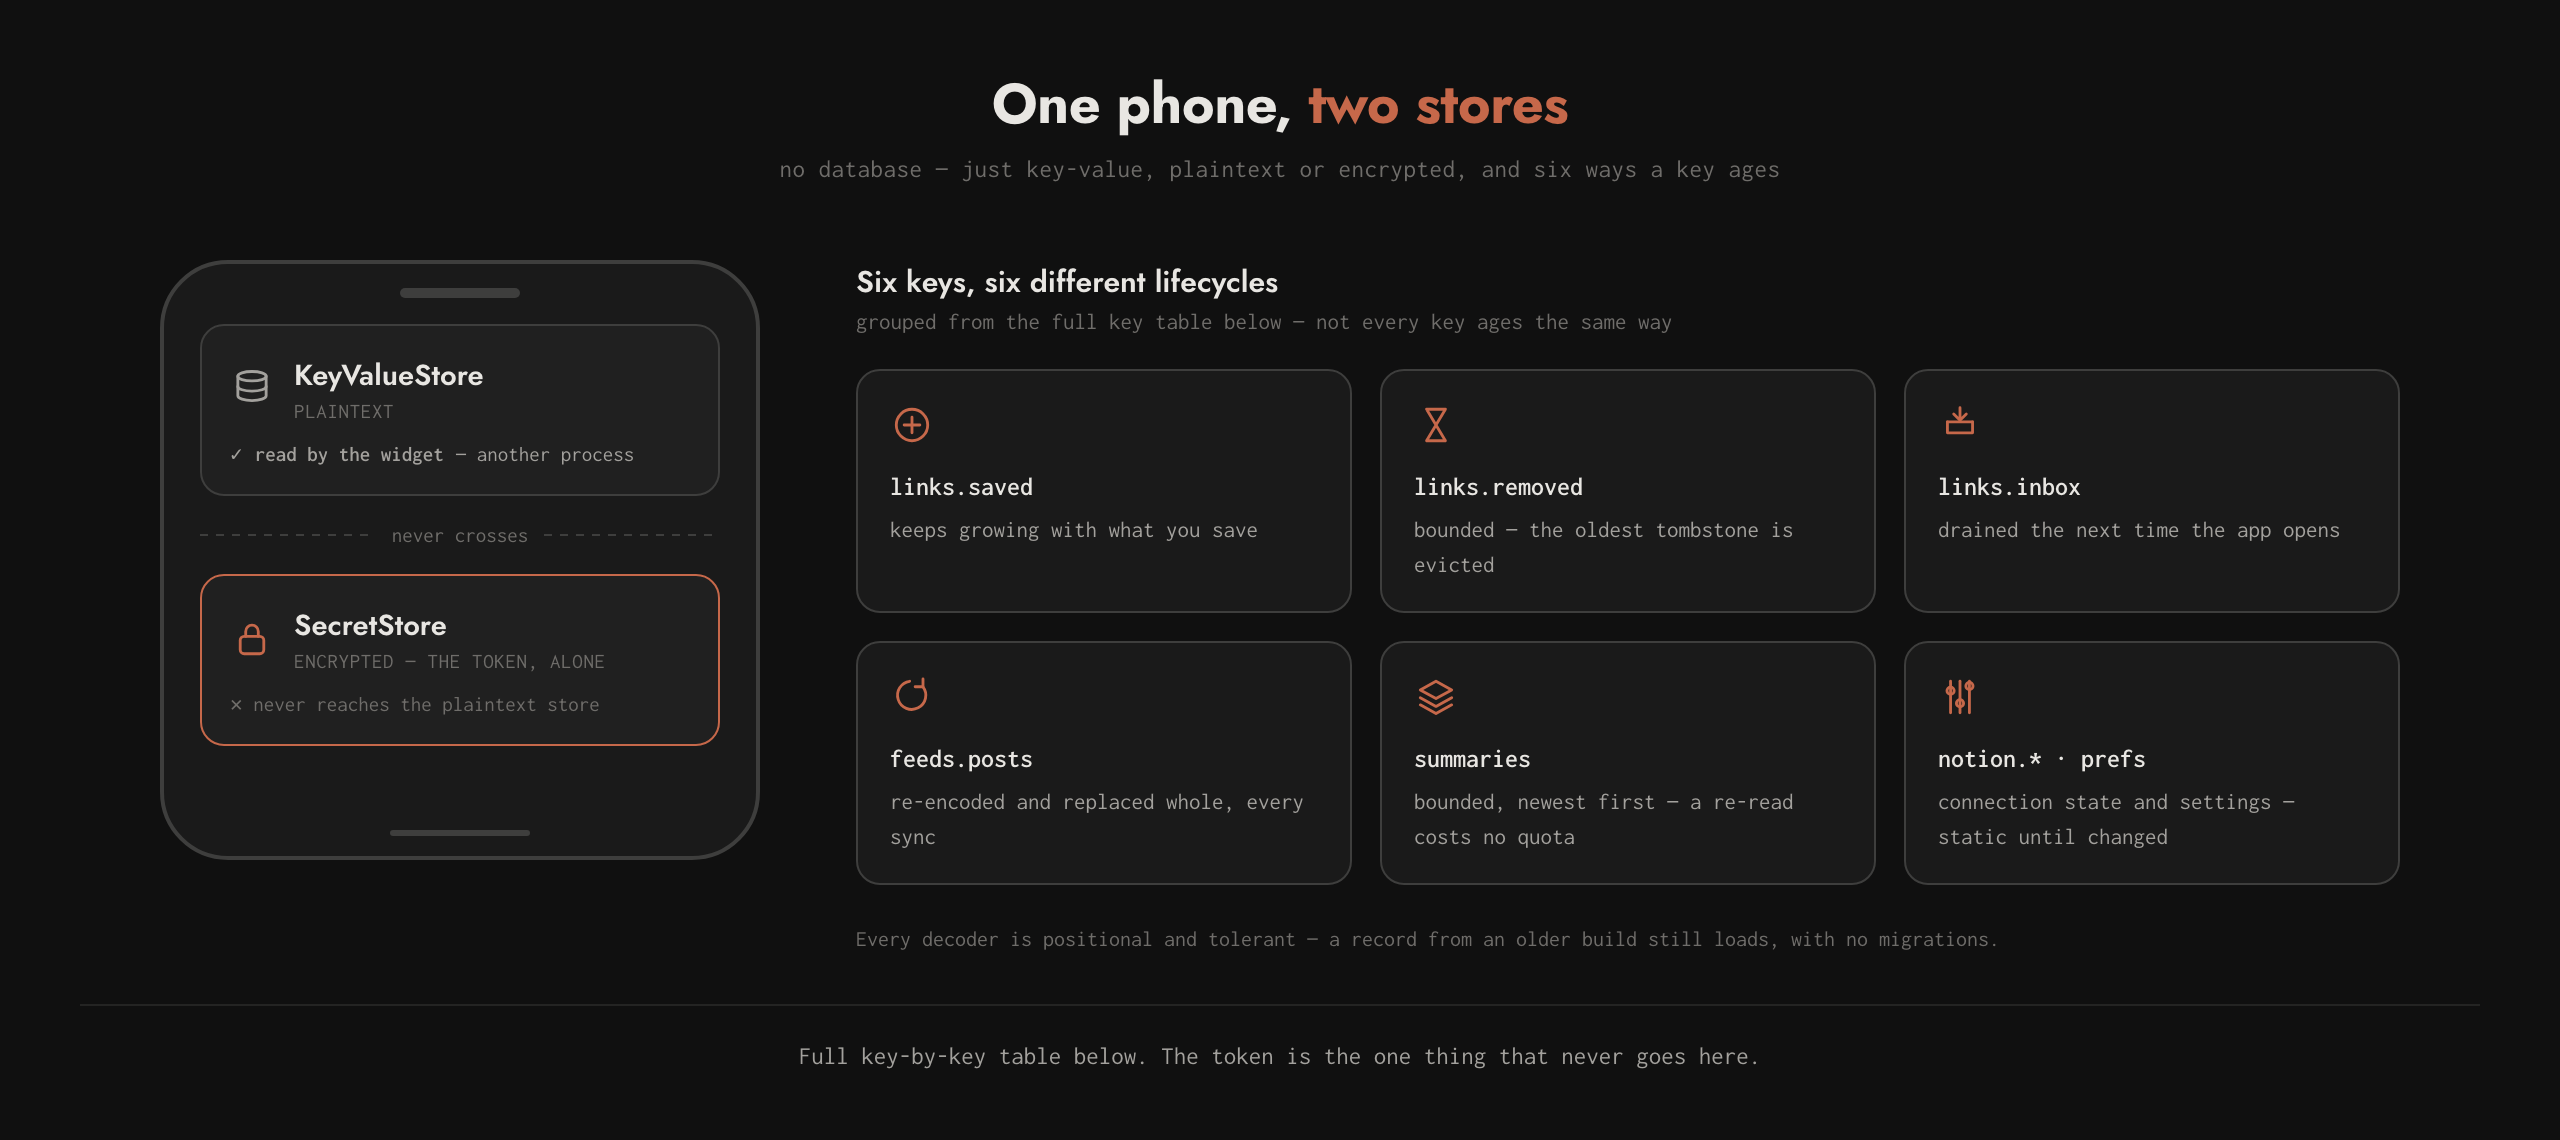
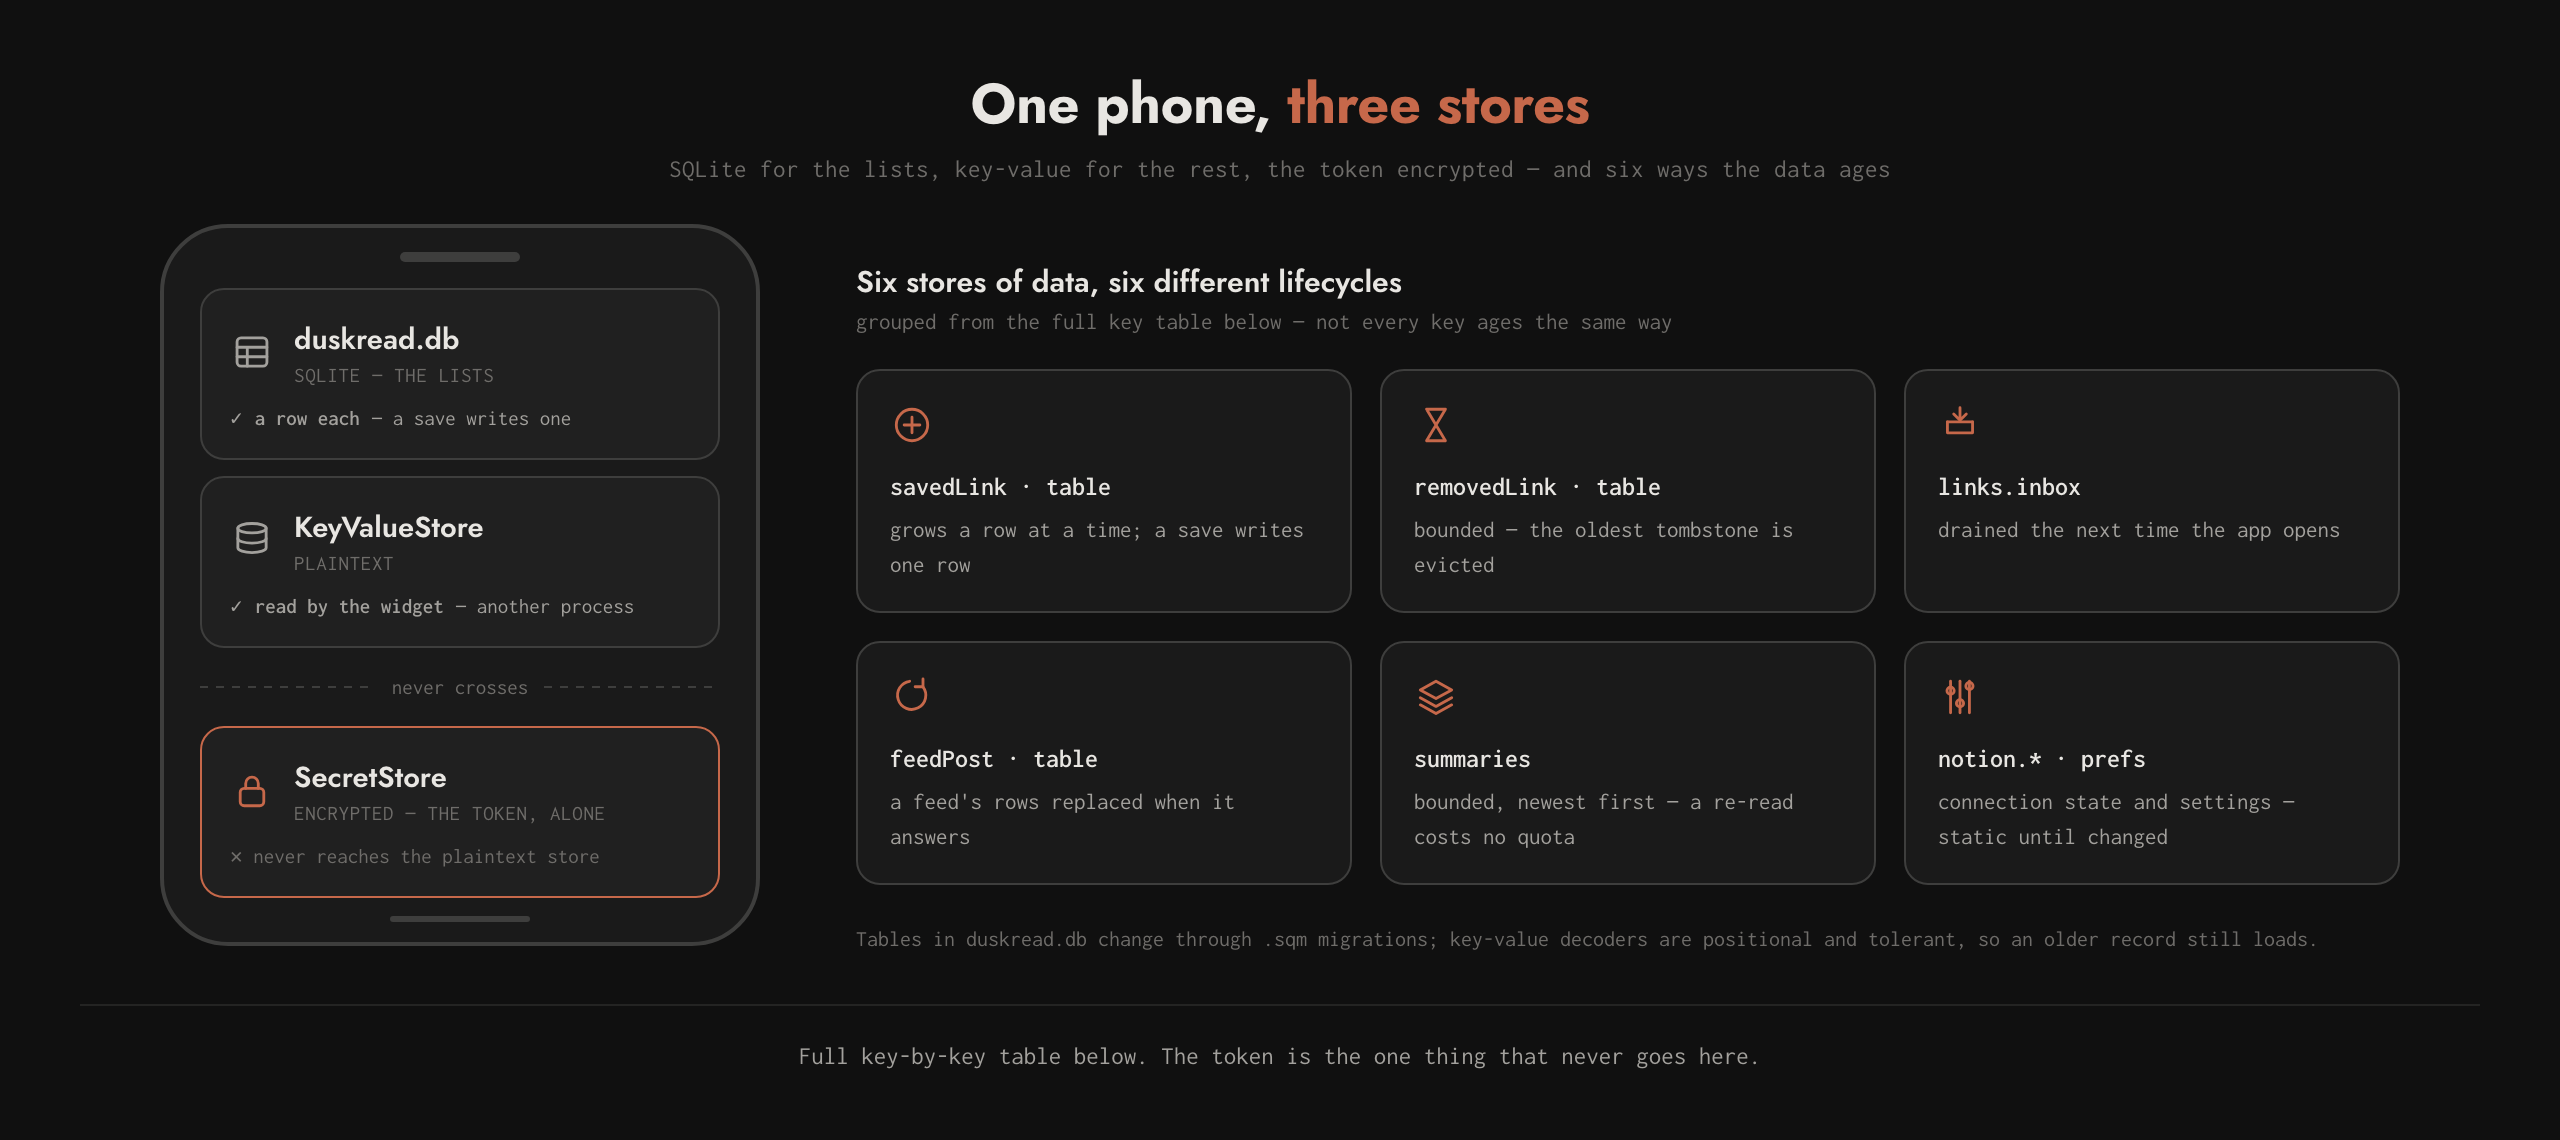
Bring architecture.md in line with SQLite storage and optional Notion
Followed blogs reach Notion as well as saved links; opening a feed post is a
fifth way a link gets in; Notion is optional; storage stops claiming no
migrations; the glyph count, the sqldelight/ folder and the landing-page
description are current; the storage diagram shows duskread.db as a third
store, re-rendered from its source.

diff --git a/docs/media/ondevice-storage.html b/docs/media/ondevice-storage.html
@@ -73,7 +73,7 @@
   /* ---- the phone ---- */
 
   #phone {
-    position: absolute; left: 80px; top: 130px; width: 300px; height: 300px;
+    position: absolute; left: 80px; top: 112px; width: 300px;
     border: 2px solid var(--line-firm); border-radius: 34px;
     background: var(--surface); padding: 30px 18px 22px;
   }
@@ -86,6 +86,7 @@
     width: 70px; height: 3px; border-radius: 2px; background: var(--line-firm);
   }
 
+  .store + .store { margin-top: 8px; }
   .store {
     border: 1px solid var(--line-firm); border-radius: 12px;
     background: var(--surface-raised); padding: 14px 14px;
@@ -154,11 +155,25 @@
 </style>
 
 <div id="stage">
-  <h1>One phone, <span class="accent">two stores</span></h1>
-  <p class="sub">no database — just key-value, plaintext or encrypted, and six ways a key ages</p>
+  <h1>One phone, <span class="accent">three stores</span></h1>
+  <p class="sub">SQLite for the lists, key-value for the rest, the token encrypted — and six ways the data ages</p>
 
   <div id="phone">
     <div class="notch"></div>
+
+    <div class="store">
+      <div class="head">
+        <svg class="icon" viewBox="0 0 28 28" fill="none" stroke="currentColor" stroke-width="1.8" stroke-linecap="round" stroke-linejoin="round">
+          <rect x="4.5" y="5" width="19" height="18" rx="2.5"/>
+          <path d="M4.5 11 H23.5 M4.5 17 H23.5 M11 11 V23"/>
+        </svg>
+        <div>
+          <div class="name">duskread.db</div>
+          <div class="kind">SQLite — the lists</div>
+        </div>
+      </div>
+      <div class="grant yes">✓ <b>a row each</b> — a save writes one</div>
+    </div>
 
     <div class="store">
       <div class="head">
@@ -195,7 +210,7 @@
   </div>
 
   <div id="lifecycles">
-    <div class="heading">Six keys, six different lifecycles
+    <div class="heading">Six stores of data, six different lifecycles
       <span class="caption">grouped from the full key table below — not every key ages the same way</span>
     </div>
 
@@ -204,15 +219,15 @@
         <svg class="icon" viewBox="0 0 28 28" fill="none" stroke="currentColor" stroke-width="1.8" stroke-linecap="round" stroke-linejoin="round">
           <circle cx="14" cy="14" r="10"/><path d="M14 9 v10 M9 14 h10"/>
         </svg>
-        <div class="key">links.saved</div>
-        <div class="lifecycle">keeps growing with what you save</div>
+        <div class="key">savedLink · table</div>
+        <div class="lifecycle">grows a row at a time; a save writes one row</div>
       </div>
 
       <div class="cell">
         <svg class="icon" viewBox="0 0 28 28" fill="none" stroke="currentColor" stroke-width="1.8" stroke-linecap="round" stroke-linejoin="round">
           <path d="M8 4 h12 M8 24 h12 M8 4 l6 10 l-6 10 M20 4 l-6 10 l6 10"/>
         </svg>
-        <div class="key">links.removed</div>
+        <div class="key">removedLink · table</div>
         <div class="lifecycle">bounded — the oldest tombstone is evicted</div>
       </div>
 
@@ -228,8 +243,8 @@
         <svg class="icon" viewBox="0 0 28 28" fill="none" stroke="currentColor" stroke-width="1.8" stroke-linecap="round" stroke-linejoin="round">
           <path d="M21 7.5 A9 9 0 1 1 12.5 4"/><path d="M21 7.5 V2.5 M21 7.5 H16"/>
         </svg>
-        <div class="key">feeds.posts</div>
-        <div class="lifecycle">re-encoded and replaced whole, every sync</div>
+        <div class="key">feedPost · table</div>
+        <div class="lifecycle">a feed's rows replaced when it answers</div>
       </div>
 
       <div class="cell">
@@ -251,7 +266,7 @@
       </div>
     </div>
 
-    <div class="legendline">Every decoder is positional and tolerant — a record from an older build still loads, with no migrations.</div>
+    <div class="legendline">Tables in duskread.db change through .sqm migrations; key-value decoders are positional and tolerant, so an older record still loads.</div>
   </div>
 
   <footer id="footer">Full key-by-key table below. The token is the one thing that never goes here.</footer>

diff --git a/docs/architecture.md b/docs/architecture.md
@@ -28,8 +28,9 @@ if you need the schema, the diagram, or the reasoning behind a number.
 
 A Kotlin Multiplatform app — Android and iOS from one `commonMain` — that
 does four things: keeps saved links, follows blogs by RSS, plays articles
-back as audio, and runs a focus timer. Notion curates what to follow and
-what's worth reading; the device never depends on it being reachable.
+back as audio, and runs a focus timer. Notion, if connected, curates what to
+follow and what's worth reading; it is optional, and the device never depends
+on it being reachable.
 
 Android draws with Compose Multiplatform. iOS draws with SwiftUI over the
 same Kotlin — see [The two UIs](#the-two-uis).
@@ -47,15 +48,16 @@ What it shows, in words:
 - **Following a blog** pulls `Sources` into `FeedLibrary`, additively, and
   writes back the same way — nothing here ever unfollows on a row deleted
   upstream.
-- **Saving a link** is the only two-way path, and the only place the app
-  writes to Notion. A row resolves per-row, newest wins, on `changedAt`
+- **Saving a link** syncs both ways with `Reading List`. A row resolves
+  per-row, newest wins, on `changedAt`
   against Notion's `last_edited_time`; a delete on the phone tombstones the
   Notion row (`Dismissed`) rather than erasing it.
 - **A newsletter with no public feed** is filed by Claude straight into
   `Reading List` and reaches the phone the same way any other row does, once
   `Saved` is ticked.
-- **A link gets in** one of four ways — the share sheet, the home-screen
-  widget, the paste field, or a bookmark from Following — all landing in
+- **A link gets in** one of five ways — the share sheet, the home-screen
+  widget, the paste field, a bookmark on a feed post, or opening a feed post,
+  which files it as read (`OpenRecord.SaveAndMarkRead`) — all landing in
   `LinkLibrary`.
 - **`RECOMMENDED`** ranks everything unread by a weighted sum of bounded,
   explicable terms: freshness, source and topic affinity, staleness, fit
@@ -105,7 +107,7 @@ Same picture as `README.md` — one copy, `docs/media/kmp-architecture.png`
 `data/`; the ranking; the parsers; the sync. Also the design *values* —
 `ui/theme/DesignTokens.kt` carries the fifteen colour roles per scheme, the
 layout and radius and stroke numbers and the four motion durations as plain
-`Long`/`Double`/`Int`, and `ui/theme/IconPaths.kt` carries the twenty-two
+`Long`/`Double`/`Int`, and `ui/theme/IconPaths.kt` carries the twenty-three
 glyphs as SVG path data. `Theme.kt`, `Tokens.kt` and `DuskReadIcons.kt` build
 their Compose values from those rather than owning them; Swift builds its
 `Color`, `CGFloat` and `Path` values from the same.
@@ -272,8 +274,8 @@ on Home doing something.
 | **Device** | followed feeds, cached posts, saved links, signals | the app | the app |
 | **readback** | `library.db` + `audio/`, synced onto the device by a separate script | the readback project | the app, **read-only** |
 
-Feed *posts* are never uploaded anywhere. Only deliberately saved links reach
-Notion.
+Feed *posts* are never uploaded anywhere. Only saved links and followed blogs
+reach Notion.
 
 ---
 
@@ -344,14 +346,15 @@ Lists in SQLite, the rest key-value. `duskread.db` (SQLDelight,
 `feedPost`, `savedLink` and `removedLink`: a sync rewrites only the feeds that
 answered, and a save or a tick writes one row. Each legacy string is imported
 once, into an empty table only — on iOS a removal lost to an early kill can
-bring the old string back. Everything else is small and stays in `KeyValueStore`, a four-method interface over
-`SharedPreferences` / a `.properties` file / `NSUserDefaults` / `localStorage`.
-Every decoder is positional and tolerant — new fields are appended and read
-with `getOrNull`, so a record written by an older build still loads, with no
-migrations.
+bring the old string back. Everything else is small and stays in
+`KeyValueStore`, a four-method interface over `SharedPreferences` / a
+`.properties` file / `NSUserDefaults` / `localStorage`. Its decoders are
+positional and tolerant — new fields are appended and read with `getOrNull`,
+so a record written by an older build still loads without a migration; the
+tables change only through `.sqm` migrations.
 
 <p align="center">
-  <img src="media/ondevice-storage.png" alt="One phone, two stores: KeyValueStore is plaintext and read by the widget from another process, SecretStore is encrypted and never reaches it. Six key groups age six different ways — links.saved keeps growing, links.removed is bounded and evicts oldest, links.inbox drains on next open, feeds.posts is replaced whole every sync, summaries is bounded newest-first, notion.*/prefs are static until changed">
+  <img src="media/ondevice-storage.png" alt="One phone, three stores: the duskread.db SQLite database for the lists, KeyValueStore in plaintext and read by the widget from another process, and SecretStore, encrypted, which never reaches it. Six groups age six different ways — savedLink keeps growing a row at a time, removedLink is bounded and evicts the oldest, links.inbox drains on next open, feedPost replaces a feed's rows when it answers, summaries is bounded newest-first, notion.*/prefs are static until changed">
 </p>
 
 <details>
@@ -554,7 +557,8 @@ committed. `composeApp` splits into `commonMain` and two platform source
 sets meeting it through `expect`/`actual`; `commonMain` is organised by
 feature — `data/`, `links/`, `notion/`, `pomodoro/`, `reader/`, `speech/`,
 `summary/`, `ui/` — each named for the concern in
-[The shape of it](#the-shape-of-it).
+[The shape of it](#the-shape-of-it). Beside them, `commonMain/sqldelight/`
+holds the database schema and its migrations.
 
 `iosApp` is no longer a thin host around a Compose view controller: it is the
 iOS UI. `Design/` builds Swift values from the shared tokens, `Bridge/` wraps
@@ -579,5 +583,5 @@ would be ceremony, and their absence is deliberate rather than pending.
 ## Where to look next
 
 - `README.md` — what the app is and how to build it
-- https://duskread.mksbrew.dev — the visual language and every colour, type
-  style and value behind it
+- https://duskread.mksbrew.dev — the app's own page: what it's for, and the
+  screens in Paper Black
